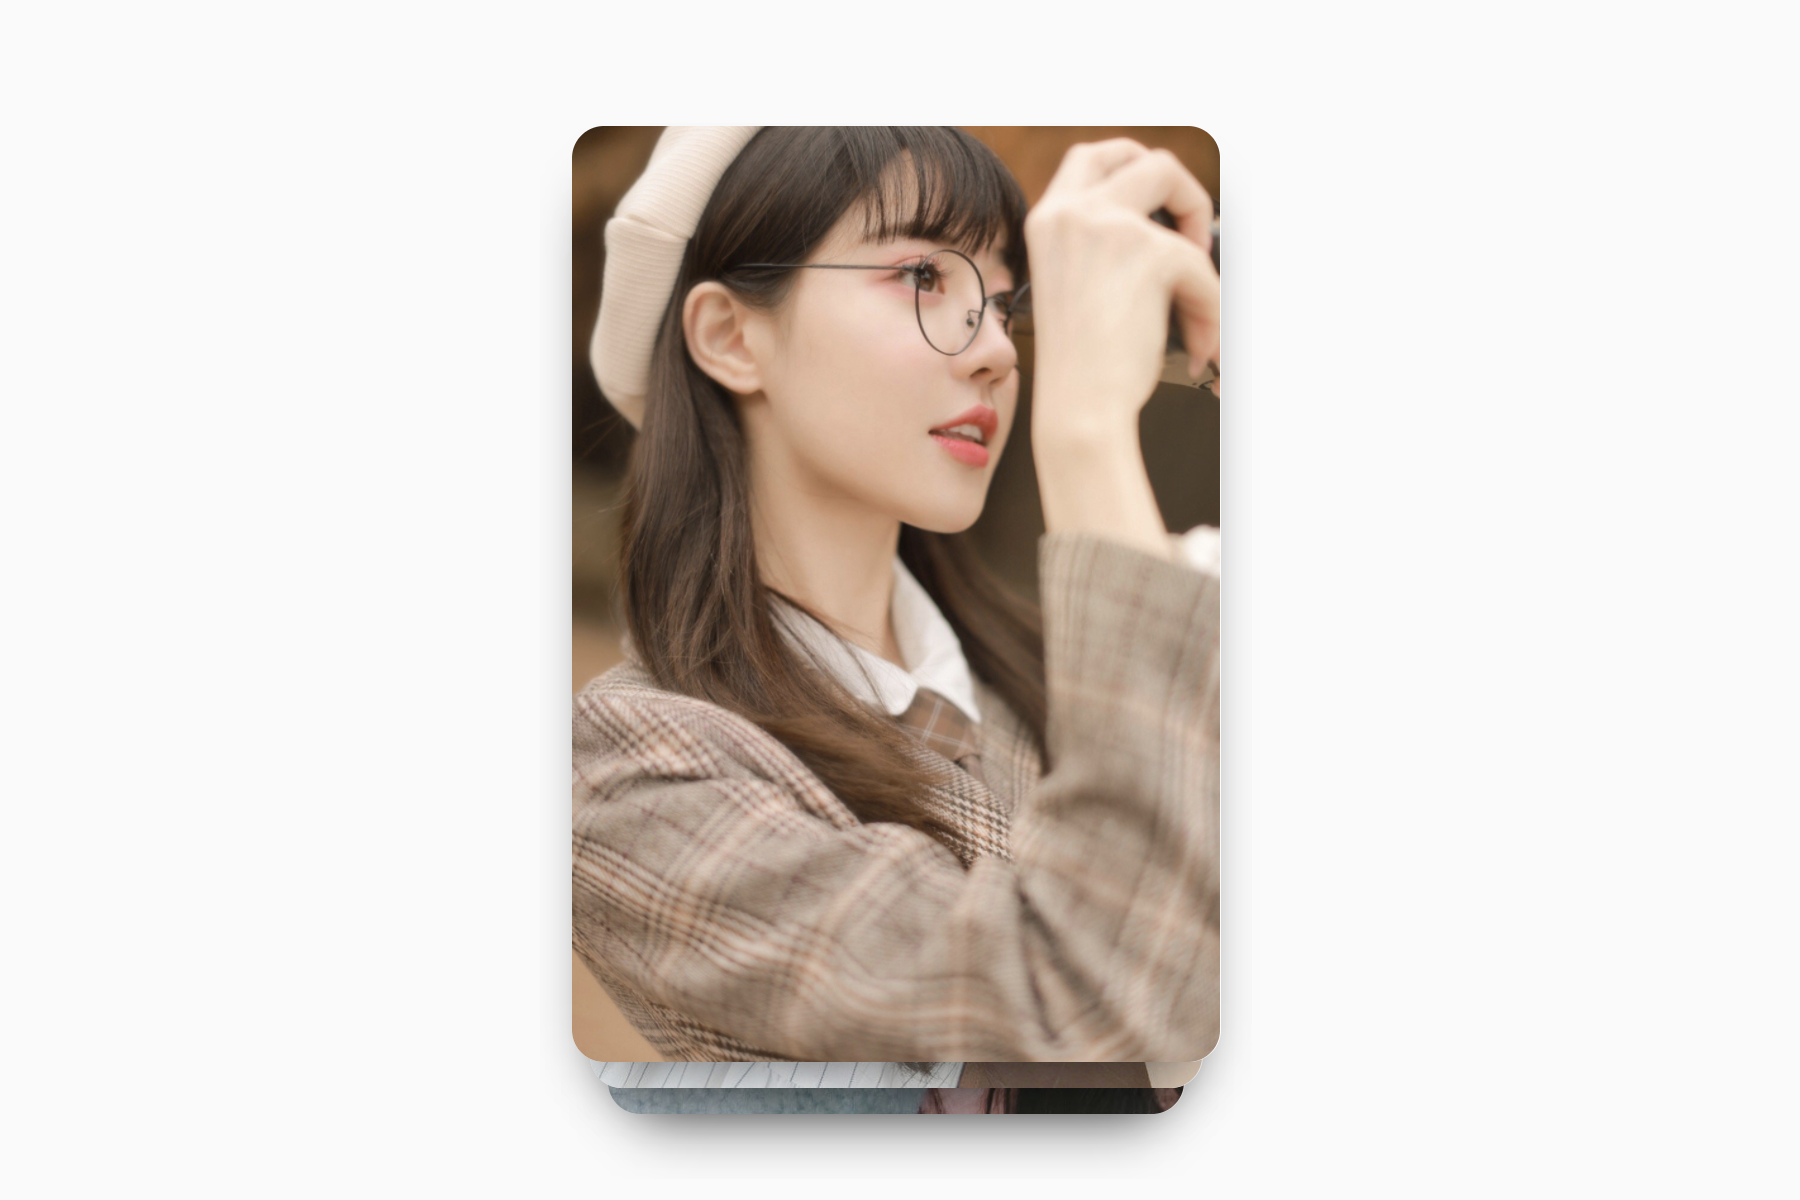
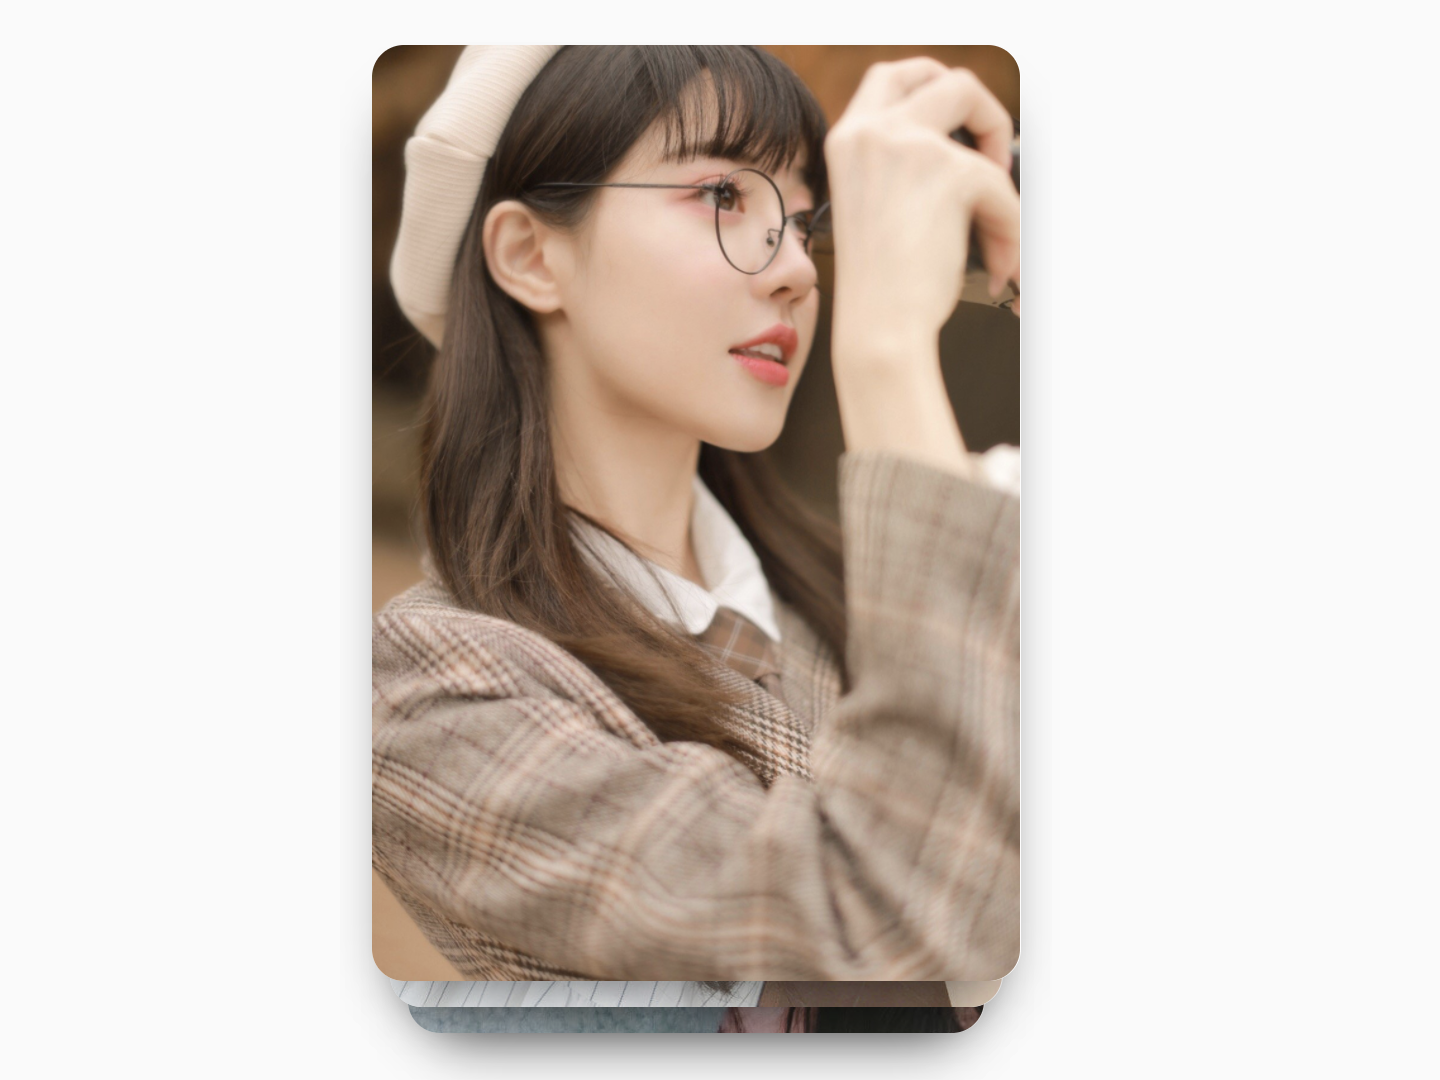
feat: update & publish

Changed region(s): [[0.25, 0.0306, 0.7188, 1.0]]

diff --git a/themes/cold-stone/source/styles/cold-stone.css b/themes/cold-stone/source/styles/cold-stone.css
@@ -24,8 +24,7 @@ body {
   scroll-behavior: smooth;
   transition: all ease 0.3s;
   background-color: var(--bg-white);
-  background-image: linear-gradient(
-      0deg,
+  background-image: linear-gradient(0deg,
       transparent 24%,
       rgba(201, 195, 195, 0.329) 25%,
       rgba(209, 201, 201, 0.05) 26%,
@@ -34,10 +33,8 @@ body {
       rgba(209, 204, 204, 0.185) 75%,
       rgba(180, 176, 176, 0.05) 76%,
       transparent 77%,
-      transparent
-    ),
-    linear-gradient(
-      90deg,
+      transparent),
+    linear-gradient(90deg,
       transparent 24%,
       rgba(204, 196, 196, 0.226) 25%,
       rgba(172, 165, 165, 0.05) 26%,
@@ -46,8 +43,7 @@ body {
       rgba(209, 204, 204, 0.185) 75%,
       rgba(180, 176, 176, 0.05) 76%,
       transparent 77%,
-      transparent
-    );
+      transparent);
   background-size: 50px 50px;
 }
 
@@ -519,7 +515,7 @@ img::selection {
 }
 
 .animate-list__item img {
-  max-height: 420px;
+  max-height: 520px;
 }
 
 .animate-list__title {
@@ -1038,7 +1034,7 @@ code {
   list-style: none;
 }
 
-.activity ul > li {
+.activity ul>li {
   position: relative;
   padding: 1rem;
   margin-bottom: 1rem;

diff --git a/source/_posts/flutter-tinder-card.md b/source/_posts/flutter-tinder-card.md
@@ -51,11 +51,11 @@ Stack(
 
 ## 布局思路
 
-实现这个卡片布局的大致思路如下
+要使用 `Stack` 实现这个卡片布局的大致思路如下
 
 1. 首先需要前，中，后三个子控件，使用 `Align` 控件定位在容器中。
 2. 需要一个手势监听器 `GestureDetector` 监听手指滑动。
-3. 根据手指在屏幕上滑动时更新最前面卡片的位置。
+3. 监听手指在屏幕上滑动同时更新最前面卡片的位置。
 4. 判断移动的横轴距离进行卡片位置变换动画或者卡片回弹动画。
 5. 如果运行了卡片位置变换动画在动画结束后更新卡片的索引值。
 
@@ -125,10 +125,9 @@ class _MyAppState extends State<MyApp> {
 
 <img src="./images/flutter-tinder-card/stack.png" width="560" style="width: 280px">
 
-2. 对子控件定位并设置其尺寸
+2. 对子控件分别定位并设置其尺寸
 
-定位需要设置 `Align` 控件的 alignment 属性，传入一个 `Alignment(x, y)` 进行设置。
-设置尺寸需要使用 `LayoutBuilder` 获取当前容器的尺寸，然后根据容器尺寸进行计算。
+定位需要设置 `Align` 控件的 alignment 属性，传入一个 `Alignment(x, y)` 进行设置。设置尺寸需要使用 `LayoutBuilder` 获取当前父容器的尺寸，然后根据容器尺寸进行计算。
 
 ```dart
 class _MyAppState extends State<MyApp> {
@@ -138,6 +137,7 @@ class _MyAppState extends State<MyApp> {
       alignment: Alignment(0.0, -0.5),
       // 使用 SizedBox 确定卡片尺寸
       child: SizedBox.fromSize(
+        // 计算卡片尺寸，相对于父容器
         size: Size(constraints.maxWidth * 0.9, constraints.maxHeight * 0.9),
         child: Container(
           color: Colors.blue,
@@ -151,6 +151,7 @@ class _MyAppState extends State<MyApp> {
     return Align(
       alignment: Alignment(0.0, 0.0),
       child: SizedBox.fromSize(
+        // 计算卡片尺寸，相对于父容器
         size: Size(constraints.maxWidth * 0.85, constraints.maxHeight * 0.9),
         child: Container(
           color: Colors.red,
@@ -164,6 +165,7 @@ class _MyAppState extends State<MyApp> {
     return Align(
       alignment: Alignment(0.0, 0.5),
       child: SizedBox.fromSize(
+        // 计算卡片尺寸，相对于父容器
         size: Size(constraints.maxWidth * 0.8, constraints.maxHeight * .9),
         child: Container(
           color: Colors.green,
@@ -292,6 +294,8 @@ class _MyAppState extends State<MyApp> {
 <img src="./images/flutter-tinder-card/pan.gif" width="260" style="width: 280px">
 
 ## 卡片动画
+
+这个布局有三种动画，最前面卡片移开的动画；后面两张卡片位置和尺寸变化的动画；最前面卡片回到原位的动画。
 
 1. 判断卡片横轴移动距离
 
@@ -500,7 +504,7 @@ class CardAnimations {
 }
 ```
 
-动画运行时在卡片上应用动画值，否则使用卡片默认的位置和尺寸。使用一个 `AnimationController` 控制动画运行。
+使用一个 `AnimationController` 控制动画运行，动画运行时在卡片上应用以上的动画值，否则使用卡片默认的位置和尺寸。
 
 ```dart
 class _MyAppState extends State<MyApp> with TickerProviderStateMixin {
@@ -646,7 +650,8 @@ class _MyAppState extends State<MyApp> with TickerProviderStateMixin {
 ## 数据更新
 
 可以看到动画运行之后三张卡片都恢复了默认的位置和尺寸，而需要的效果是当卡片换位动画完成后三张卡片的数据会改变，所以还需要在动画之后进行数据处理。
-首先创建一个数组保存全部子项目，使用一个索引更新最前面卡片的子项索引，在卡片换位动画结束后索引值加一。
+
+创建一个数组保存全部子项目，使用一个索引更新最前面卡片的子项索引，在卡片换位动画结束后索引值加一。
 
 ```dart
 List<String> images = [
@@ -686,6 +691,7 @@ List<Widget> cards = List.generate(
 );
 
 void main() {
+  // 使用生成的卡片数组
   runApp(MyApp(cards: cards));
 }
 
@@ -773,80 +779,36 @@ class _MyAppState extends State<MyApp> with TickerProviderStateMixin {
       });
   }
 
-  @override
-  Widget build(BuildContext context) {
-    return MaterialApp(
-      title: 'TCards demo',
-      debugShowCheckedModeBanner: false,
-      home: Scaffold(
-        body: Center(
-          child: SizedBox(
-            width: 360,
-            height: 520,
-            child: LayoutBuilder(
-              builder: (context, constraints) {
-                // 使用 LayoutBuilder 获取容器的尺寸，传个子项计算卡片尺寸
-                final Size size = MediaQuery.of(context).size;
-                // 移动的速度
-                final double speed = 10.0;
-                // 卡片横轴距离限制
-                final double limit = 10.0;
+ // 省略...
 
-                return Stack(
-                  children: [
-                    // 后面的子项会显示在上面，所以前面的卡片放在最后
-                    _backCard(constraints),
-                    _middleCard(constraints),
-                    _frontCard(constraints),
-                    // 使用一个占满父元素的 GestureDetector 监听手指移动
-                    // 如果动画在运行中就不在响应手势
-                    _cardChangeController.status != AnimationStatus.forward
-                        ? SizedBox.expand(
-                            child: GestureDetector(
-                              onPanDown: (DragDownDetails details) {},
-                              onPanUpdate: (DragUpdateDetails details) {
-                                // 手指移动就更新最前面卡片的 alignment 属性
-                                _frontCardAlignment += Alignment(
-                                  details.delta.dx / (size.width / 2) * speed,
-                                  details.delta.dy / (size.height / 2) * speed,
-                                );
-                                // 设置最前面卡片的旋转角度
-                                _frontCardRotation = _frontCardAlignment.x;
-                                setState(() {});
-                              },
-                              onPanEnd: (DragEndDetails details) {
-                                // 如果最前面的卡片横轴移动距离超过限制就运行换位动画，否则运行回弹动画
-                                if (_frontCardAlignment.x > limit ||
-                                    _frontCardAlignment.x < -limit) {
-                                  _runChangeOrderAnimation();
-                                } else {
-                                  _runReboundAnimation(
-                                    details.velocity.pixelsPerSecond,
-                                    size,
-                                  );
-                                }
-                              },
-                            ),
-                          )
-                        : IgnorePointer(),
-                  ],
-                );
-              },
-            ),
-          ),
-        ),
-      ),
-    );
-  }
+return Stack(
+  children: [
+    // 省略...
+
+    // 使用一个占满父元素的 GestureDetector 监听手指移动
+    // 如果动画在运行中就不在响应手势
+    _cardChangeController.status != AnimationStatus.forward
+        ? SizedBox.expand(
+            child: GestureDetector(
+              // 省略...
+            )
+          )
+        : IgnorePointer(),
+  ],
 }
 
 ```
 
+至此整个布局就实现了 🎉
 
 ## 总结
 
+这个布局的关键点在于
+1. 三张卡片的定位
+2. 监听手势更新最前面卡片的位置
+3. 卡片的换位动画和回弹动画
 
-插件地址 https://pub.dev/packages/tcard
+作者已经封装了这个插件，地址是 https://pub.dev/packages/tcard 欢迎使用。
 
 ## 参考
 
